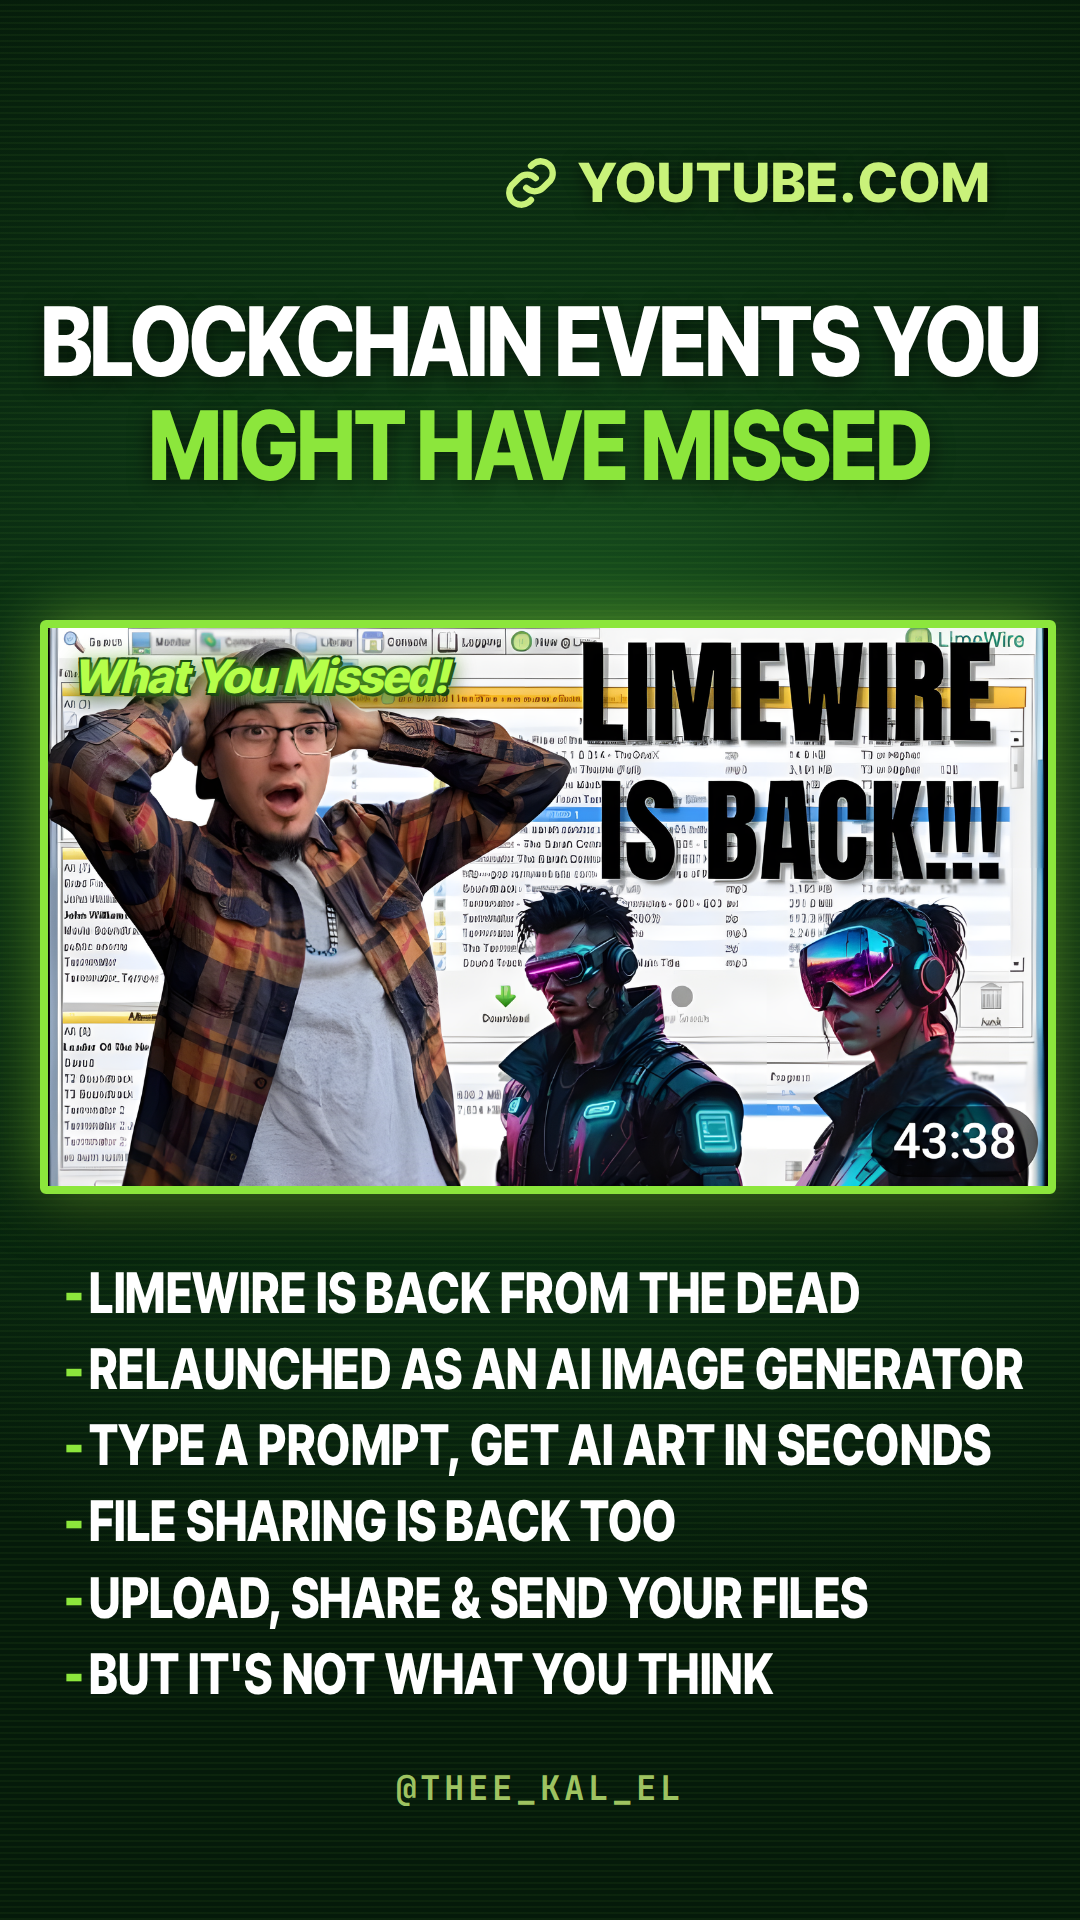
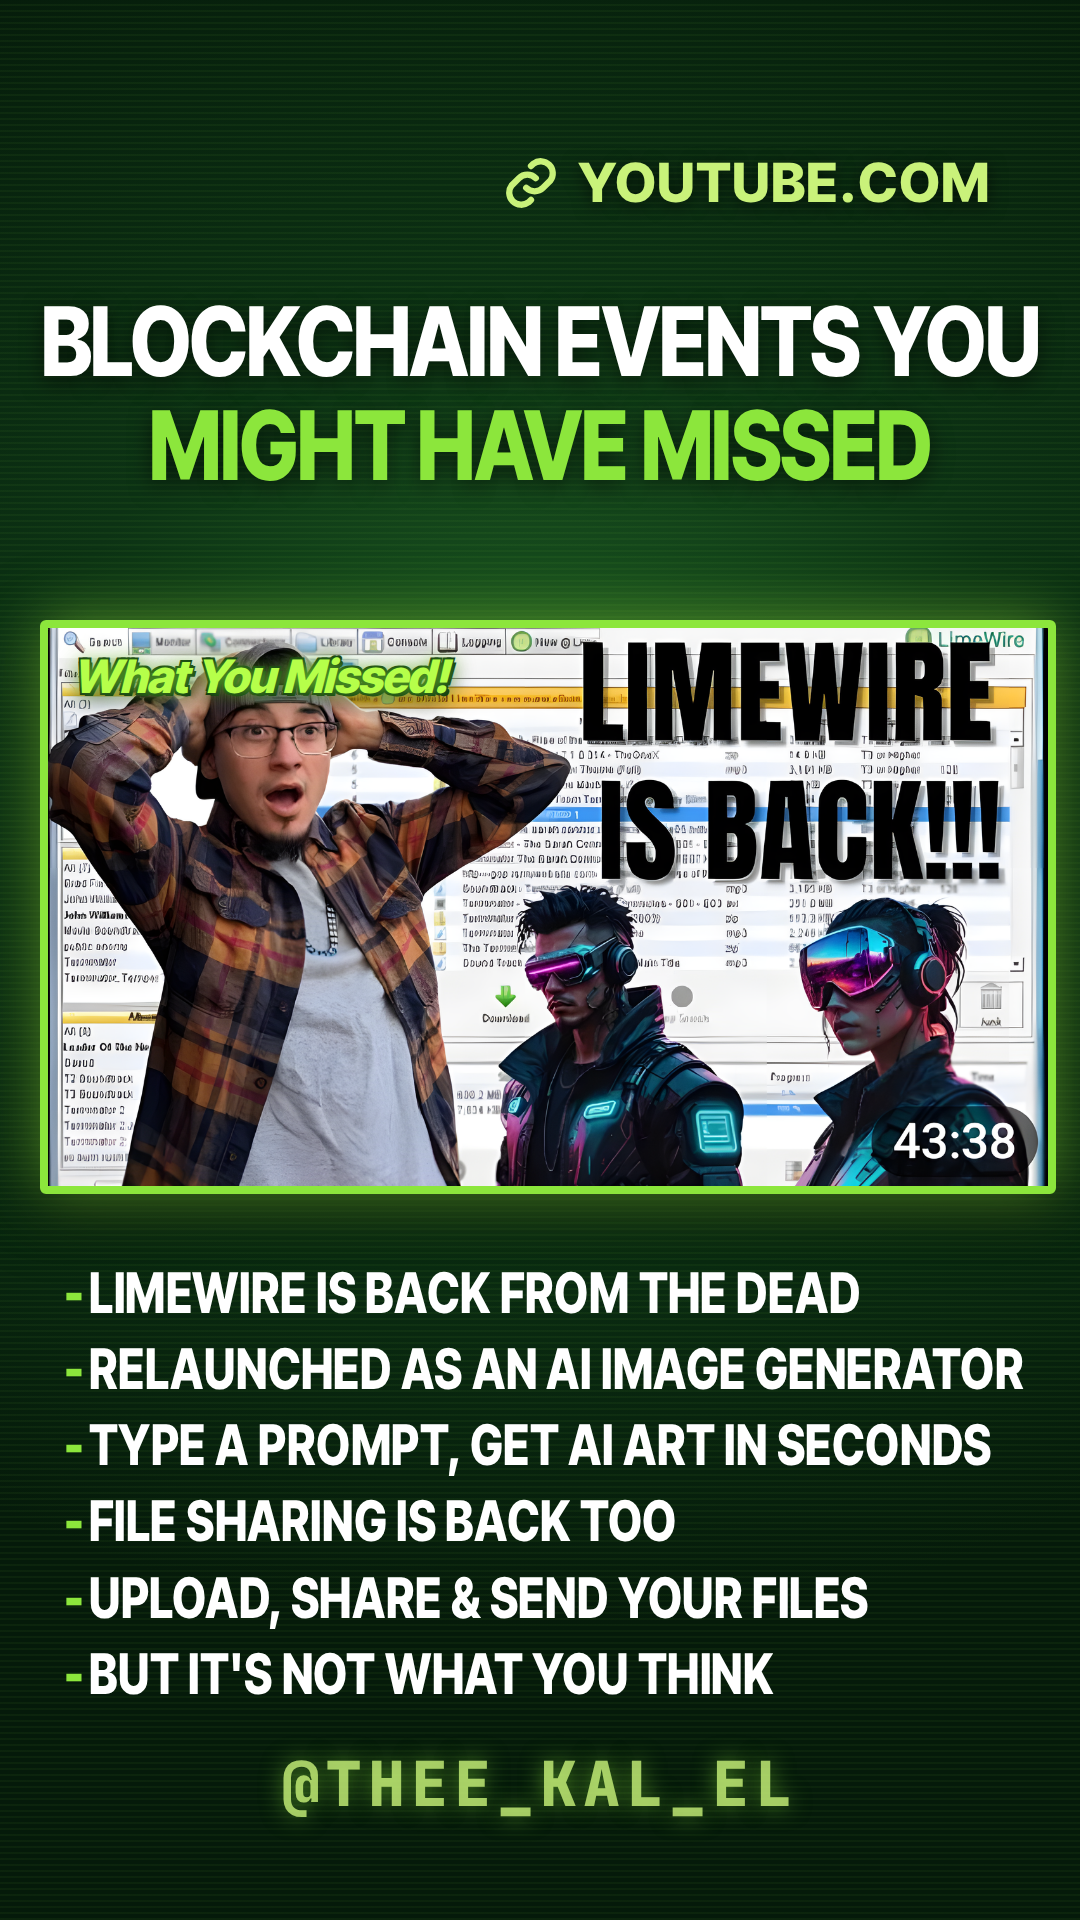
LimeWire story: bigger @THEE_KAL_EL handle
Claude-Session: https://claude.ai/code/session_01NSJvdmHsHoazKiuuGVQfMY

Changed region(s): [[0.2444, 0.9062, 0.6417, 0.9688], [0.6417, 0.9062, 0.7333, 0.9375]]

diff --git a/story/limewire_story.html b/story/limewire_story.html
@@ -19,7 +19,7 @@ h1 span{color:#8CE63C}
 ul{position:absolute;top:1255px;left:64px;right:40px;margin:0;padding:0;list-style:none;font:800 56px/1.36 "Inter Tight";text-transform:uppercase;letter-spacing:.5px}
 li{transform-origin:left;transform:scaleX(.8);white-space:nowrap}
 li:before{content:"-";color:#8CE63C;margin-right:6px}
-.foot{position:absolute;bottom:110px;left:0;right:0;text-align:center;font:700 34px "JetBrains Mono";letter-spacing:4px;color:rgba(201,242,122,.8)}
+.foot{position:absolute;bottom:95px;left:0;right:0;text-align:center;font:800 62px "JetBrains Mono";letter-spacing:6px;text-shadow:0 0 22px rgba(140,230,60,.5);color:rgba(201,242,122,.8)}
 </style></head><body>
 <div id="s">
  <div class="link"><svg viewBox="0 0 24 24" fill="none" stroke="#C9F27A" stroke-width="2.6" stroke-linecap="round"><path d="M10 14a5 5 0 0 0 7 0l3-3a5 5 0 0 0-7-7l-1 1"/><path d="M14 10a5 5 0 0 0-7 0l-3 3a5 5 0 0 0 7 7l1-1"/></svg>YOUTUBE.COM</div>
